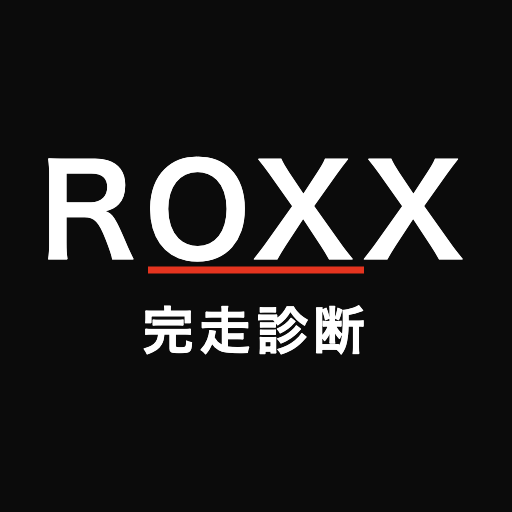
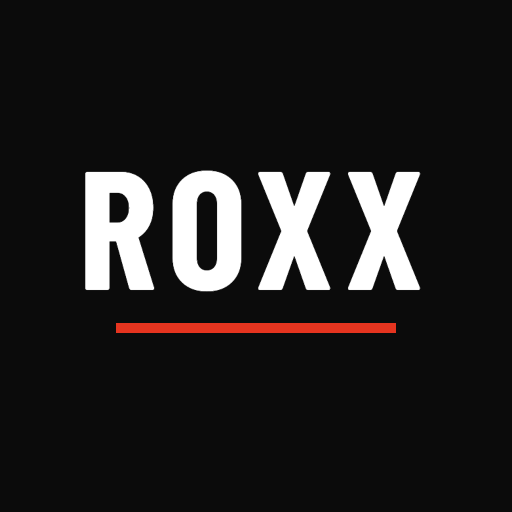
feat: 名称を完走プログラムに変更し、シェアカードに写真背景を追加
「診断」は一度きりの印象を与えるため、継続して使うものであることが
伝わる「完走プログラム」に統一。Stripeの商品名（HYROX完走プログラム）
とも一致させた。入口のCTAは心理的な負担を上げないため「診断をはじめる」
のまま残す。

Nike Run Clubのシェアが写真の上にスタッツを重ねる方式であることを踏まえ、
カードの背景に端末内の写真を敷けるようにした。上下の黒グラデーションで
文字の可読性を確保し、中央は写真が見えるよう薄くしている。写真は端末内で
合成するだけで、どこにも送信しない。

アイコンはROXXのみに整理（ホーム画面ではブランドだけで足りる）。

Changed region(s): [[0.0938, 0.2812, 0.9062, 0.7188]]

diff --git a/index.html b/index.html
@@ -3,8 +3,8 @@
 <head>
 <meta charset="utf-8">
 <meta name="viewport" content="width=device-width, initial-scale=1, viewport-fit=cover">
-<title>ROXX — HYROX完走診断</title>
-<meta name="description" content="8つの質問で、予測完走タイム・本番で止まる箇所・必要な準備週数が出る。HYROX未経験者のための完走診断。">
+<title>ROXX — HYROX完走プログラム</title>
+<meta name="description" content="8つの質問で、予測完走タイム・本番で止まる箇所・必要な準備週数が出る。HYROX未経験者のための完走プログラム。">
 <link rel="canonical" href="https://zono062.github.io/hyrox-shindan/">
 
 <!-- PWA -->
@@ -12,7 +12,7 @@
 <meta name="theme-color" content="#0B0B0B">
 <meta name="apple-mobile-web-app-capable" content="yes">
 <meta name="apple-mobile-web-app-status-bar-style" content="black-translucent">
-<meta name="apple-mobile-web-app-title" content="HYROX診断">
+<meta name="apple-mobile-web-app-title" content="ROXX">
 <link rel="apple-touch-icon" sizes="180x180" href="./apple-touch-icon.png">
 <link rel="icon" type="image/png" sizes="192x192" href="./icon-192.png">
 <link rel="icon" type="image/png" sizes="512x512" href="./icon-512.png">
@@ -283,6 +283,15 @@ body{
 .price{display:flex;align-items:baseline;gap:8px;margin-bottom:16px}
 .price b{font-family:"Barlow Condensed",sans-serif;font-weight:700;font-size:40px}
 .price span{font-size:12px;color:var(--mute)}
+.photorow{
+  display:flex;justify-content:space-between;align-items:center;gap:10px;
+  border:1px solid var(--rule);padding:11px 14px;margin-top:9px;
+}
+.photorow span{font-size:12px;color:var(--mute)}
+.photorow button{
+  background:none;border:none;font-size:12px;font-weight:700;color:var(--ink);
+  text-decoration:underline;cursor:pointer;font-family:"Noto Sans JP",sans-serif;
+}
 .ghost{
   width:100%;margin-top:9px;background:none;border:1px solid var(--rule);
   padding:15px;font-size:13px;cursor:pointer;font-family:"Noto Sans JP",sans-serif;
@@ -310,7 +319,7 @@ body{
 <!-- INTRO -->
 <section class="screen on" id="s-intro">
   <div class="hero">
-    <div class="mark">ROXX / 完走診断</div>
+    <div class="mark">ROXX / 完走プログラム</div>
     <h1>出られるかどうかを、<br>先に確かめる。</h1>
     <p>8つの質問に答えると、あなたの予測完走タイムと、本番で止まる箇所、そして間に合うかどうかが出ます。所要30秒。</p>
     <div class="spec">
@@ -326,7 +335,7 @@ body{
 <section class="screen" id="s-q">
   <div class="qtop">
     <div class="eyebrow" id="qidx">Q1 / 8</div>
-    <div class="eyebrow">完走診断</div>
+    <div class="eyebrow">完走プログラム</div>
   </div>
   <div class="bar"><i id="qbar" style="width:12.5%"></i></div>
   <div class="q" id="qtitle"></div>
@@ -387,6 +396,7 @@ body{
   <div class="cta">
     <div class="price" id="ctaPrice"><b class="num">¥980</b><span>／月・いつでも解約</span></div>
     <button class="btn" id="ctaBtn" onclick="checkout()">段階1から始める</button>
+    <div class="photorow" id="photoState"></div>
     <button class="ghost" onclick="share()">結果を画像でシェアする</button>
     <p class="ctalegal">月額980円・自動更新／いつでも解約できます。お申し込み前に<a href="./legal/terms.html">利用規約</a>と<a href="./legal/tokushoho.html">特定商取引法に基づく表記</a>をご確認ください。</p>
     <p class="disc">予測タイムは身長・体重・年齢・現在の走力から算出した参考値です。トレーニングおよび栄養に関する内容は一般的な情報であり、個別の医学的・栄養指導ではありません。</p>
@@ -683,6 +693,7 @@ function renderResult(){
 
   renderWeek();
   watchWeekScroll();
+  paintPhotoState();
 }
 
 /* 第1週セクションが画面に入ったら1度だけ発火 */
@@ -1149,6 +1160,39 @@ const SHARE_HOST=SITE_URL.replace(/^https?:\/\//,"").replace(/\/$/,"");
 /* ============ シェアカード ============
    テキストではなく画像を吐く。文字列のシェアはSNSに貼れないため。
    週締め後は「予測タイムが動いた差分」を主役にする。動いた数字だけが話題になる。 */
+/* 背景に敷く写真（任意）。端末内で合成するだけで、どこにも送信しない */
+let SHOT=null;
+function pickPhoto(){
+  const inp=document.createElement("input");
+  inp.type="file"; inp.accept="image/*";
+  inp.onchange=()=>{
+    const f=inp.files&&inp.files[0];
+    if(!f) return;
+    if(!/^image\//.test(f.type)){ alert("画像ファイルを選んでください"); return }
+    if(f.size>20*1024*1024){ alert("画像が大きすぎます（20MBまで）"); return }
+    const url=URL.createObjectURL(f);
+    const img=new Image();
+    img.onload=()=>{ SHOT=img; paintPhotoState(); URL.revokeObjectURL(url) };
+    img.onerror=()=>{ alert("この画像は読み込めませんでした"); URL.revokeObjectURL(url) };
+    img.src=url;
+  };
+  inp.click();
+}
+function clearPhoto(){ SHOT=null; paintPhotoState() }
+function paintPhotoState(){
+  const el=$("photoState"); if(!el) return;
+  el.innerHTML = SHOT
+    ? '<span>写真を背景に使います</span><button onclick="clearPhoto()">外す</button>'
+    : '<span>カードは黒背景です</span><button onclick="pickPhoto()">写真を選ぶ</button>';
+}
+
+/* 短辺に合わせて中央でトリミング（カバー配置） */
+function drawCover(x,img,W,H){
+  const r=Math.max(W/img.width,H/img.height);
+  const w=img.width*r,h=img.height*r;
+  x.drawImage(img,(W-w)/2,(H-h)/2,w,h);
+}
+
 async function ensureFonts(){
   if(!document.fonts||!document.fonts.load) return;
   await Promise.all([
@@ -1180,10 +1224,22 @@ async function buildShareCard(before){
   const x=c.getContext("2d");
   x.fillStyle="#0B0B0B"; x.fillRect(0,0,W,H);
 
+  if(SHOT){
+    // 写真を敷き、文字が読めるように上下から黒を重ねる
+    drawCover(x,SHOT,W,H);
+    const g=x.createLinearGradient(0,0,0,H);
+    g.addColorStop(0,"rgba(11,11,11,.90)");
+    g.addColorStop(.40,"rgba(11,11,11,.34)");
+    g.addColorStop(.60,"rgba(11,11,11,.34)");
+    g.addColorStop(.78,"rgba(11,11,11,.88)");
+    g.addColorStop(1,"rgba(11,11,11,.96)");
+    x.fillStyle=g; x.fillRect(0,0,W,H);
+  }
+
   x.textAlign="left"; x.textBaseline="top";
   x.fillStyle="#FFFFFF";
   x.font='700 30px "Barlow Condensed", sans-serif'; x.letterSpacing="10px";
-  x.fillText("ROXX  /  完走診断", PAD, PAD);
+  x.fillText("ROXX  /  完走プログラム", PAD, PAD);
   x.strokeStyle="#2C2C2C"; x.lineWidth=2;
   x.beginPath(); x.moveTo(PAD,PAD+58); x.lineTo(W-PAD,PAD+58); x.stroke();
 
@@ -1256,7 +1312,7 @@ async function buildShareCard(before){
 }
 
 function shareText(before){
-  const l=["ROXX 完走診断"];
+  const l=["ROXX 完走プログラム"];
   if(before&&before>R.total) l.push("予測タイム "+hms(before)+" → "+hms(R.total));
   else l.push("予測タイム "+hms(R.total));
   l.push("必要な準備 "+R.need+"週");

diff --git a/legal/terms.html b/legal/terms.html
@@ -12,9 +12,9 @@
 </head>
 <body>
 <main>
-<span class="mark">ROXX / 完走診断</span>
+<span class="mark">ROXX / 完走プログラム</span>
 <h1>利用規約</h1>
-<p>本利用規約（以下「本規約」）は、HYROX完走診断（以下「本サービス」）の利用条件を定めるものです。利用者は、本サービスを利用することにより本規約に同意したものとみなされます。</p>
+<p>本利用規約（以下「本規約」）は、ROXX（HYROX完走プログラム。以下「本サービス」）の利用条件を定めるものです。利用者は、本サービスを利用することにより本規約に同意したものとみなされます。</p>
 
 <h2>第1条（本サービスの内容）</h2>
 <p>本サービスは、利用者が入力した身体情報および運動習慣に基づき、フィットネスレースの予測完走タイム、想定される弱点、必要な準備期間の目安、およびトレーニングメニューの例を提示するものです。第1週分のメニューは無料で、第2週以降は有料プランの対象となります。</p>

diff --git a/legal/privacy.html b/legal/privacy.html
@@ -12,9 +12,9 @@
 </head>
 <body>
 <main>
-<span class="mark">ROXX / 完走診断</span>
+<span class="mark">ROXX / 完走プログラム</span>
 <h1>プライバシーポリシー</h1>
-<p>HYROX完走診断（以下「本サービス」）は、利用者の情報を以下のとおり取り扱います。</p>
+<p>ROXX（HYROX完走プログラム。以下「本サービス」）は、利用者の情報を以下のとおり取り扱います。</p>
 
 <h2>1. 取得する情報</h2>
 <p>本サービスは、診断のために以下の情報を利用者に入力していただきます。</p>

diff --git a/legal/tokushoho.html b/legal/tokushoho.html
@@ -12,7 +12,7 @@
 </head>
 <body>
 <main>
-<span class="mark">ROXX / 完走診断</span>
+<span class="mark">ROXX / 完走プログラム</span>
 <h1>特定商取引法に基づく表記</h1>
 <dl>
 <dt>販売事業者</dt><dd>水野 勇</dd>

diff --git a/README.md b/README.md
@@ -1,6 +1,6 @@
-# ROXX — HYROX完走診断
+# ROXX — HYROX完走プログラム
 
-HYROX未経験者向けの完走診断Webアプリ。
+HYROX未経験者向けの完走プログラム。
 本サービスは HYROX および Upsolut Sports GmbH とは関係のない非公式サービス。8項目の入力から、予測完走タイム・弱点2種目・
 必要準備週数・トレーニングメニューを生成する。
 
